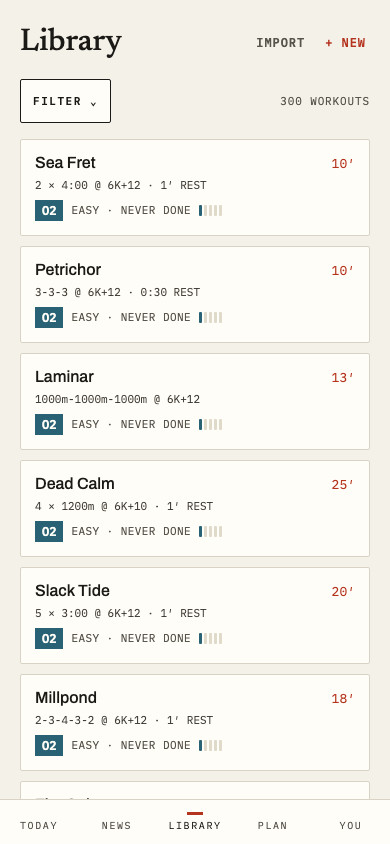
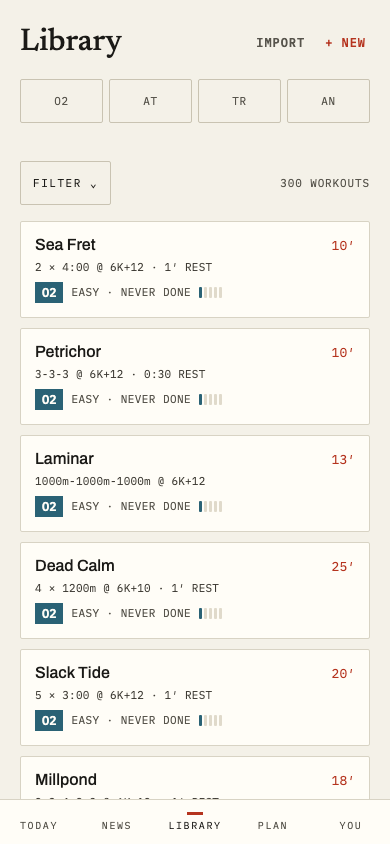
fix: sheet CLEAR spares TYPE, chip row gets a group name, stale capture and two DEVIATIONS rows fixed
Whole-branch review fix round (APPROVE WITH FIXES, four Important):

- library-seeded.png recaptured — it still showed the pre-branch screen
  (no chip row, the old ink-bordered FILTER trigger), a second Library
  capture the earlier sweep never touched.
- filters.ts gains clearSheetFilters(f): resets DIFFICULTY/TIME/PAIN/
  LAST DONE/SOURCE, preserving f.types. FilterSheet.tsx's CLEAR now calls
  it instead of the whole-library clearFilters() — a rower opening the
  sheet and tapping CLEAR no longer silently loses their chip-row
  selection. Library.tsx's own CLEAR ALL is unchanged (still empties
  everything). Both halves pinned with tests, both self-mutated.
- DEVIATIONS rows 12/48 corrected: Library's FILTER trigger is a real
  visual change (ink border -> --rule-3, 15.41:1 -> 1.56:1 on the
  border), not a pixel-identical rename as row 48 previously claimed.
- Library's TYPE chip row gains role=group + aria-label="TYPE" — the
  old sheet-based CellGrid control it replaced had a group role and a
  visible label; the bare button row had neither, in any modality. Pinned
  client-side and with a new e2e structural sweep.
- CSS/JSX comments on both index.css's .type-chip-grid margin rule and
  Today.tsx's own descriptor wrapper now cross-reference the sibling-
  mounting dependency the margin relies on.

Claude-Session: https://claude.ai/code/session_01KY9P1bYNt9uJ4hgTN18TgH

diff --git a/app/src/library/Library.test.tsx b/app/src/library/Library.test.tsx
@@ -400,6 +400,55 @@ describe("Library", () => {
       expect(within(dialog()).getByText("3 WORKOUTS")).toBeInTheDocument();
     });
 
+    // Fix round (whole-branch review, finding B): the sheet's own CLEAR
+    // used to call the whole-library `clearFilters()`, silently emptying
+    // `types` too even though the sheet renders no TYPE control at all
+    // (TYPE's own chip row lives outside it, applied directly to `filters`
+    // rather than the sheet's draft) — a rower had no way to see that
+    // pressing this CLEAR would also drop their chip-row selection. This
+    // pins the fix: CLEAR resets exactly the sheet's own groups.
+    it("the sheet's own CLEAR leaves an active TYPE chip (and its token) standing, resetting only the sheet's own groups", async () => {
+      mockReady();
+      await renderLibrary();
+
+      // TYPE via the chip row (outside the sheet, applied immediately) —
+      // narrows straight to w-o2.
+      await userEvent.click(screen.getByRole("button", { name: "O2" }));
+      expect(tokenLabel("O2")).toBeInTheDocument();
+      expect(visibleHrefs()).toStrictEqual(["/library/w-o2"]);
+
+      await openSheet();
+      const dialog = () => screen.getByRole("dialog");
+      // PAIN 5 is w-an's own level, not w-o2's — combined with the
+      // already-active TYPE=O2 this is a genuine zero-match draft, proving
+      // the two groups actually compose before CLEAR is pressed.
+      await userEvent.click(
+        within(dialog()).getByRole("button", { name: "5" }),
+      );
+      expect(
+        within(dialog()).getByText("NO WORKOUTS MATCH"),
+      ).toBeInTheDocument();
+
+      await userEvent.click(
+        within(dialog()).getByRole("button", { name: "CLEAR" }),
+      );
+
+      // The sheet's own PAIN group is reset...
+      expect(
+        within(dialog()).getByRole("button", { name: "5" }),
+      ).toHaveAttribute("aria-pressed", "false");
+      // ...and the draft is back to "TYPE=O2 only" — one match, not zero
+      // and not the full library — proving `types` survived CLEAR.
+      expect(within(dialog()).getByText("1 WORKOUT")).toBeInTheDocument();
+
+      // The chip row itself (outside the sheet entirely) was never touched.
+      expect(screen.getByRole("button", { name: "O2" })).toHaveAttribute(
+        "aria-pressed",
+        "true",
+      );
+      expect(tokenLabel("O2")).toBeInTheDocument();
+    });
+
     it("the primary disables (and the caption reads 'NO WORKOUTS MATCH') when the draft matches nothing", async () => {
       mockReady();
       await renderLibrary();
@@ -551,6 +600,24 @@ describe("Library", () => {
       expect(labels).toStrictEqual(["O2", "AT", "TR", "AN"]);
     });
 
+    // Fix round (whole-branch review, finding D): the OLD TYPE control (a
+    // sheet CellGrid) had `role="group"` + a visible "TYPE" label; this row
+    // replaced it with four bare `aria-pressed` buttons and no group
+    // semantics at all — a real a11y regression axe's own scan doesn't
+    // catch (it flags missing names on individual controls, not a missing
+    // group around correctly-named ones). Pins the fix: the row exposes a
+    // named group, and every chip is reachable inside it.
+    it("exposes a role=group named TYPE holding all four chips", async () => {
+      mockReady();
+      await renderLibrary();
+
+      const group = screen.getByRole("group", { name: "TYPE" });
+      const labels = within(group)
+        .getAllByRole("button")
+        .map((button) => button.textContent);
+      expect(labels).toStrictEqual(["O2", "AT", "TR", "AN"]);
+    });
+
     // Carried-forward subject B (both halves — the negative half was in the
     // deleted test too). Contrast for the active fill is already verified
     // at 6.67:1 (library-filter-unification design spec) — cited, not
@@ -614,6 +681,43 @@ describe("Library", () => {
       expect(
         screen.queryByText("O2", { selector: ".filter-token-label" }),
       ).not.toBeInTheDocument();
+    });
+
+    // Fix round (whole-branch review, finding B): CLEAR ALL — the token-row
+    // control, distinct from the sheet's own CLEAR pinned above — remains
+    // the one affordance whose whole job is "clear everything," `types`
+    // included, unlike the sheet's own CLEAR which now spares it.
+    it("CLEAR ALL empties an active TYPE chip too, unlike the sheet's own CLEAR", async () => {
+      mockReady();
+      await renderLibrary();
+
+      await userEvent.click(screen.getByRole("button", { name: "O2" }));
+      await openSheet();
+      await userEvent.click(
+        within(screen.getByRole("dialog")).getByRole("button", { name: "1" }),
+      );
+      await applySheet();
+
+      expect(tokenLabel("O2")).toBeInTheDocument();
+      expect(screen.getByText("PAIN 1")).toBeInTheDocument();
+      expect(visibleHrefs()).toStrictEqual(["/library/w-o2"]);
+
+      await userEvent.click(screen.getByRole("button", { name: "CLEAR ALL" }));
+
+      expect(screen.getByRole("button", { name: "O2" })).toHaveAttribute(
+        "aria-pressed",
+        "false",
+      );
+      expect(
+        screen.queryByText("O2", { selector: ".filter-token-label" }),
+      ).not.toBeInTheDocument();
+      expect(screen.queryByText("PAIN 1")).not.toBeInTheDocument();
+      expect(screen.getByText("3 WORKOUTS")).toBeInTheDocument();
+      expect(visibleHrefs()).toStrictEqual([
+        "/library/w-at",
+        "/library/w-o2",
+        "/library/w-an",
+      ]);
     });
 
     describe("the effective-type descriptor word", () => {

diff --git a/app/src/library/FilterSheet.tsx b/app/src/library/FilterSheet.tsx
@@ -7,7 +7,7 @@ import { DIFFICULTY_CHIPS } from "../components/difficultyChips";
 import { DURATION_CHIPS } from "../components/durationChips";
 import {
   RECENCY_BOUNDARY_DAYS,
-  clearFilters,
+  clearSheetFilters,
   setLastDone,
   setSource,
   toggleDifficulty,
@@ -53,6 +53,17 @@ const COUNT_ID = "filter-sheet-count";
  * SOME difficulty preference), Library's own convention is the same as
  * `durations`/`painLevels` here — empty means no filter, and CLEAR ALL keeps
  * emptying to nothing (spec §1).
+ *
+ * CLEAR vs. CLEAR ALL (fix round, whole-branch review finding B): this
+ * sheet's own CLEAR button (`clearSheetFilters`) resets only the groups
+ * rendered IN HERE — DIFFICULTY/TIME/PAIN/LAST DONE/SOURCE — leaving
+ * `draft.types` exactly as the rower left it. Before this fix CLEAR called
+ * the whole-library `clearFilters()`, silently emptying `types` too even
+ * though the sheet shows no TYPE control and gives no indication that
+ * pressing CLEAR would touch it. `Library.tsx`'s own CLEAR ALL (the
+ * token-row control, outside this component entirely) is unchanged — it
+ * still calls `clearFilters()` and still empties everything, `types`
+ * included; that is the one control whose whole job is "clear everything."
  *
  * The primary reads the constant **`Apply Filter`** (Today's own contract,
  * adopted verbatim, spec §3) rather than a live "Show N workouts" — the
@@ -122,7 +133,7 @@ export default function FilterSheet({
         <button
           type="button"
           className="filter-sheet-clear"
-          onClick={() => onChangeDraft(clearFilters())}
+          onClick={() => onChangeDraft(clearSheetFilters(draft))}
         >
           CLEAR
         </button>

diff --git a/app/src/library/Library.tsx b/app/src/library/Library.tsx
@@ -309,8 +309,21 @@ export default function Library() {
           and persists immediately via the effect below, the same as every
           other filter change. `.type-chip-grid` (index.css, extracted from
           Today's own `.today-type-chips`) lays these out as the identical
-          4-column grid Today's row uses — a pure rename, not a new layout. */}
-      <div className="chip-wrap type-chip-grid">
+          4-column grid Today's row uses — a pure rename, not a new layout.
+
+          Fix round (whole-branch review, finding D): `role="group"` +
+          `aria-label="TYPE"` — before this fix the row was four bare
+          `aria-pressed` buttons with no group semantics and no name in ANY
+          modality, a real regression from the OLD sheet-based TYPE control
+          (a `CellGrid`, `role="group"` + a visible "TYPE" label) this chip
+          row replaced. `aria-label` rather than a visible label: the row's
+          own visual design has no static "TYPE" heading anywhere (the
+          `TYPE_WORDS` descriptor beneath it is deliberately conditional —
+          exactly one selection — and itself `aria-hidden`), and adding one
+          would be a visible layout change this fix isn't scoped to; a
+          screen-reader user still needs the name spoken since nothing else
+          on screen tells them these four buttons are a group at all. */}
+      <div className="chip-wrap type-chip-grid" role="group" aria-label="TYPE">
         {TYPE_CHIPS.map((type) => {
           const selected = filters.types.includes(type);
           return (

diff --git a/app/src/today/Today.tsx b/app/src/today/Today.tsx
@@ -1092,7 +1092,18 @@ function TodayView({
                 `.type-word` (index.css — renamed from `.today-type-word` in
                 the library-filter-unification round, Task 2's M-7 review
                 fix: Library's own descriptor reuses the identical text
-                style) is the fourth of this round's class extractions. */}
+                style) is the fourth of this round's class extractions.
+
+                Fix round (whole-branch review comment): `.type-chip-grid`'s
+                own 4px margin-bottom (index.css) assumes THIS wrapper
+                always follows it — true today only because `effectiveType`
+                is never null whenever this branch renders, per the
+                paragraph above. If a future change ever makes that false
+                while the chip row still renders, the chip row will inherit
+                the exact ~34px jump Library's own I-1 fix corrected (that
+                fix's answer was mounting the wrapper unconditionally,
+                `aria-hidden` regardless — do the same here rather than
+                patching the CSS rule). */}
             {effectiveType !== null && (
               <div className="type-word-row" aria-hidden="true">
                 <p className="type-word">{TYPE_WORDS[effectiveType]}</p>

diff --git a/app/src/library/FilterSheet.test.tsx b/app/src/library/FilterSheet.test.tsx
@@ -192,12 +192,21 @@ describe("FilterSheet", () => {
     });
   });
 
-  it("CLEAR reports an empty draft without calling onApply/onDismiss", async () => {
+  // Fix round (whole-branch review, finding B): CLEAR resets exactly the
+  // sheet's OWN groups (DIFFICULTY/TIME/PAIN/LAST DONE/SOURCE) — `types`,
+  // the chip row's own group with no control inside this sheet at all, is
+  // untouched. Seeding a non-empty `types` here is the point: against the
+  // old `clearFilters()` behaviour this draft would have come back with
+  // `types: []`, which this assertion would catch.
+  it("CLEAR resets the sheet's own groups but leaves types untouched, without calling onApply/onDismiss", async () => {
     const { onChangeDraft, onApply, onDismiss } = renderSheet({
-      draft: { ...EMPTY_FILTERS, source: "custom" },
+      draft: { ...EMPTY_FILTERS, types: ["O2"], source: "custom" },
     });
     await userEvent.click(screen.getByRole("button", { name: "CLEAR" }));
-    expect(onChangeDraft).toHaveBeenCalledWith(EMPTY_FILTERS);
+    expect(onChangeDraft).toHaveBeenCalledWith({
+      ...EMPTY_FILTERS,
+      types: ["O2"],
+    });
     expect(onApply).not.toHaveBeenCalled();
     expect(onDismiss).not.toHaveBeenCalled();
   });

diff --git a/app/e2e/design.spec.ts b/app/e2e/design.spec.ts
@@ -374,6 +374,21 @@ test.describe("library screen", () => {
     await assertNoA11yViolations(page);
   });
 
+  // Fix round (whole-branch review, finding D): the TYPE chip row (four
+  // bare `aria-pressed` buttons, library-filter-unification round) replaced
+  // a sheet `CellGrid` that had `role="group"` + a visible label — axe's
+  // own scan above doesn't catch a missing GROUP around otherwise-correctly-
+  // named buttons, so this is a dedicated structural pin, mirroring the
+  // sheet's own "DIFFICULTY/TIME/PAIN each expose a role=group" sweep
+  // further down this file for `TodayFilterSheet`/`FilterSheet`.
+  test("the TYPE chip row exposes a role=group named TYPE", async ({
+    page,
+  }) => {
+    const group = page.getByRole("group", { name: "TYPE" });
+    await expect(group).toBeVisible();
+    await expect(group.getByRole("button")).toHaveCount(4);
+  });
+
   // L1 (whole-branch review): this describe renders `.workout-row-meta`
   // (11px mono), a guard-gap the ink-4 sweep never covered on this screen.
   // Waits for a real row first — unlike every other describe this sweep

diff --git a/app/src/index.css b/app/src/index.css
@@ -891,7 +891,18 @@ button:disabled {
      row, so the two together read as one unit rather than stacking two
      16px gaps. This depends on `.type-word-row` ALWAYS being the next
      sibling — review fix I-1: it once wasn't, on Library, see that rule's
-     own comment. */
+     own comment.
+
+     Fix round (whole-branch review comment, not a finding): this dependency
+     is CURRENTLY satisfied on both screens, by two different mechanisms —
+     Library's own `.type-word-row` is unconditionally mounted (I-1, below),
+     Today's is conditional on `effectiveType !== null` (Today.tsx) but that
+     condition is always true whenever the chip row itself renders (a plan
+     being active implies an effective type). If a future Today change ever
+     makes that condition possibly false while the chip row still renders,
+     this 4px will silently reproduce the exact ~34px jump I-1 fixed on
+     Library — the fix would be the SAME one Library already got (mount
+     `.type-word-row` unconditionally there too), not a change to this rule. */
   margin-bottom: 4px;
 }
 

diff --git a/app/src/library/filters.ts b/app/src/library/filters.ts
@@ -98,6 +98,22 @@ export function clearFilters(): Filters {
   return { ...EMPTY_FILTERS };
 }
 
+/** Resets exactly the FILTER SHEET's own groups — DIFFICULTY, TIME, PAIN,
+ *  LAST DONE, SOURCE — to empty, leaving `types` (the chip row's own group,
+ *  which the sheet holds no control for at all since Task 2) untouched.
+ *
+ *  Fix round (whole-branch review, finding B): `FilterSheet.tsx`'s own
+ *  CLEAR button used to call the plain `clearFilters()` above, silently
+ *  emptying `types` too — a group the sheet cannot even show the rower is
+ *  about to lose, since it renders no TYPE cell any more. Controller
+ *  ruling: CLEAR (inside the sheet) means "clear what's in here"; CLEAR ALL
+ *  (`Library.tsx`'s own token-row control, still wired to `clearFilters()`
+ *  above, unchanged) remains the one control that empties everything,
+ *  `types` included. */
+export function clearSheetFilters(f: Filters): Filters {
+  return { ...EMPTY_FILTERS, types: f.types };
+}
+
 export function applyFilters(
   workouts: LibraryWorkout[],
   f: Filters,

diff --git a/docs/design/DEVIATIONS.md b/docs/design/DEVIATIONS.md
@@ -9,7 +9,7 @@ here. These are intentional product decisions (spec:
 |---|---|---|
 | Pain 1–10 (`PAIN 5/10`, 10-segment bars, 1–10 pickers) | Pain **1–5**: `PAIN n/5`, 5-segment bars, five 44px picker cells | Differentiation; simpler scale |
 | `PAIN ≤5` library filter chip | Five individual PAIN cells (1–5), multi-select union, inside the FILTER sheet (`FilterSheet.tsx`) — not a single `≤` threshold control at all | Task 4 (ui-fix round), DESIGN.md's own words: "the old single PAIN ≤3 chip could not express 'give me something hard'". Superseded the original `PAIN ≤3` deviation this row used to record (a single threshold's own midpoint pick no longer applies once PAIN is multi-select) |
-| Flat row of up to eleven filter chips wrapping raggedly, plus an accent `ALL` clear-everything chip (`FilterChips.tsx`, deleted) | One `FILTER ⌄` chip (ink border, 44px) plus a plain count at rest; a TYPE chip row (multi-select O2/AT/TR/AN, `.type-chip-grid`) renders ABOVE it, outside the sheet, with its own descriptor word beneath (library-filter-unification round, Task 2 — see the bottom row of this table for that decision). Tapping `FILTER ⌄` opens a sheet (`FilterSheet.tsx`) holding the remaining four groups (DIFFICULTY/TIME/PAIN as 3/4/5-cell grids, LAST DONE+SOURCE sharing a line as 2-cell grids) with a level-1 primary reading the constant **`Apply Filter`** — the live count moved off the button's own name onto a caption above it (`{n} WORKOUTS`/`1 WORKOUT`/`NO WORKOUTS MATCH`, singular- and zero-aware — library-filter-unification round, Task 2, spec §3), not a live-counting "Show N workouts" any more; active filters render back on the Library screen as a token row (`filterTokens.ts`: one token per group, not per band — a contiguous selection collapses to a range like `PAIN 4–5`, a non-contiguous one lists as `PAIN 1, 4`), each token a 44px pill (a single selected TYPE fills its own type colour via the token's own `fill`, several selected types or any other kind fills ink) with its own 44×44 `✕`, plus a `CLEAR ALL` accent control on the count line, present only while something is active | Task 4 (ui-fix round), DESIGN.md's own words: the ragged eleven-chip wrap "mixed three different selection semantics... behind one visual and one ARIA vocabulary" and wrapped mid-group at 390px, so two chips of opposite behaviour (e.g. `HARD` and `≤60′`) rendered pixel-identical. The sheet groups filters by their actual selection semantics (single-select, multi-select, mutually-exclusive pair) instead of nine identical-looking flat siblings; the token row keeps what's active visible on the main screen without the sheet staying open, and the count always reads off the tokens so the row and the count can never disagree. TYPE's own control later moved back OUT of the sheet, onto a chip row above it, and DIFFICULTY joined the sheet in its old slot, and the button's copy unified with Today's own "Apply Filter" contract — library-filter-unification round, James: "I'd like the workout types to be outside of the filter modal, similar to how it is on Today" / "I really want this filter experience to feel unified with Today"; see the bottom row of this table for the full rationale |
+| Flat row of up to eleven filter chips wrapping raggedly, plus an accent `ALL` clear-everything chip (`FilterChips.tsx`, deleted) | One `FILTER ⌄` trigger (`.button-outline.filter-trigger` — see the bottom row of this table for its own border-contrast history; NOT the ink-bordered `.library-filter-toggle` this cell originally described) plus a plain count at rest; a TYPE chip row (multi-select O2/AT/TR/AN, `.type-chip-grid`) renders ABOVE it, outside the sheet, with its own descriptor word beneath (library-filter-unification round, Task 2 — see the bottom row of this table for that decision). Tapping `FILTER ⌄` opens a sheet (`FilterSheet.tsx`) holding the remaining four groups (DIFFICULTY/TIME/PAIN as 3/4/5-cell grids, LAST DONE+SOURCE sharing a line as 2-cell grids) with a level-1 primary reading the constant **`Apply Filter`** — the live count moved off the button's own name onto a caption above it (`{n} WORKOUTS`/`1 WORKOUT`/`NO WORKOUTS MATCH`, singular- and zero-aware — library-filter-unification round, Task 2, spec §3), not a live-counting "Show N workouts" any more; active filters render back on the Library screen as a token row (`filterTokens.ts`: one token per group, not per band — a contiguous selection collapses to a range like `PAIN 4–5`, a non-contiguous one lists as `PAIN 1, 4`), each token a 44px pill (a single selected TYPE fills its own type colour via the token's own `fill`, several selected types or any other kind fills ink) with its own 44×44 `✕`, plus a `CLEAR ALL` accent control on the count line, present only while something is active | Task 4 (ui-fix round), DESIGN.md's own words: the ragged eleven-chip wrap "mixed three different selection semantics... behind one visual and one ARIA vocabulary" and wrapped mid-group at 390px, so two chips of opposite behaviour (e.g. `HARD` and `≤60′`) rendered pixel-identical. The sheet groups filters by their actual selection semantics (single-select, multi-select, mutually-exclusive pair) instead of nine identical-looking flat siblings; the token row keeps what's active visible on the main screen without the sheet staying open, and the count always reads off the tokens so the row and the count can never disagree. TYPE's own control later moved back OUT of the sheet, onto a chip row above it, and DIFFICULTY joined the sheet in its old slot, and the button's copy unified with Today's own "Apply Filter" contract — library-filter-unification round, James: "I'd like the workout types to be outside of the filter modal, similar to how it is on Today" / "I really want this filter experience to feel unified with Today"; see the bottom row of this table for the full rationale |
 | Difficulty `Introductory / Moderate / Advanced` (chips `INTRO/MODERATE/ADVANCED`) | `Easy / Medium / Hard` (chips `EASY/MEDIUM/HARD`) | Differentiation |
 | Sample data: 11 book-derived workouts ("Lucky Penny", …) | Original ~300-workout generated library (original names/structures), seeded globally at boot, converged by title on every boot | Content policy |
 | "11 OF 375 ENTERED" library counter | Plain count of the user's library, no fixed denominator: `N WORKOUTS` at rest, `N OF M SHOWN` when filtered (`Library.tsx`) | 375 is the book's scale, not ours. Task 4 (ui-fix round) retired the literal word "ENTERED" too — DESIGN.md: it "described the data-entry backlog rather than anything the rower needs" |
@@ -45,7 +45,7 @@ here. These are intentional product decisions (spec:
 | N/A — the Log screen's own handoff (`docs/design/README.md` §7) has no notion of a plan whatsoever, let alone a way to keep a logged session from advancing one | A single full-width toggle row (`.log-plan-toggle`, `LogSession.tsx`'s `LogScreen`) above Save, rendered on both doors only when `plan.planKey !== null`: default reads `COUNTS TOWARD PLAN · SESSION {doneN+1} OF {sequence.length}`, tapped reads `OUTSIDE THE PLAN — won't advance`. The server pairs it with an additive `advancesPlan` boolean (`POST /api/logs`, defaults to `true`) that gates only the `plan_state` upsert inside `logs.ts`'s `create` transaction — the log row itself always inserts regardless | Task 3 (Today enhancements, post-6C): a rower doing a genuine make-up session, or logging a workout twice in one day, had no way to record it without also silently advancing plan progress meant for one real session. The toggle is door-independent (`useLogForm`'s own state, not per-door) since nothing about it differs between the session and manual doors. A plan-hook error, or the plan fetch simply still being in flight, deliberately does NOT block Save or hide the rest of the form — only the toggle itself disappears until the plan resolves with an active plan — since logging a session must never be hostage to an unrelated fetch failing or stalling (fix round 2, whole-branch review M1/M2: an earlier version of this door DID gate the whole form on the plan fetch resolving, which parked a STALLED `/api/plan` request at LOADING… forever) |
 | ui-fix handoff's own two-idiom button vocabulary (`.button-primary`/`.button-outline` only) | A third idiom, level 3 "commit-in-card": solid `--ink`, mono 12/600/0.16em, 48px (`.button-l3`, index.css) — the builder step editor's `DONE` and, in a future task, staged baseline `Apply` | Task 1 (ui-fix round): an in-card confirm that closes an editor without leaving the screen must not compete visually with the screen's own level-1 primary action. Ink reads as "settled/committed" without any risk of being mistaken for the screen's one accent-filled action — DONE "was already black" before this task (an un-named one-off, `.step-editor-done`), formalized here into a shared, reusable class |
 | ui-fix handoff's own two-idiom button vocabulary | A fourth idiom, level 4 "destructive": surface fill, 1px **accent-outlined** border, accent label (`.button-l4`) — Delete workout, and (Tasks 2-3) Discard without logging at rest. An "armed" variant (`.button-l4-armed`) fills solid accent with cream label once tapped once | Task 1 (ui-fix round): the README's own accent usage was solid-only; a destructive control needs a danger signal (accent) without a solid block competing with the screen's own happy-path L1. Last in the stack, under a 1px `--rule` divider (`.action-stack-rule`) — visually and structurally separated from the safe actions above it |
-| N/A — the handoff's own full-width-stack rule (this round) has no stated exception | SHUFFLE (Today.tsx) stays sub-full-width — 44px chip geometry (`.filter-trigger`, renamed from `.today-shuffle` in the library-filter-unification round, Task 2, once Today's own FILTER ⌄ chip and Library's FILTER ⌄ trigger needed the identical geometry — a pure rename, all three buttons' pixels unchanged, sharing one class instead of each keeping its own copy), not a stacked block — parked at the right of the `SUGGESTED` header row (originally `SUGGESTED FOR TODAY`; shortened by the 2026-08-04 round's final fix wave, M2 — see the row below), position unchanged | Task 1 (ui-fix round), James's explicit call: SHUFFLE reads as a small utility beside a label, not a screen-level action competing for the one L1 slot. It stops being its own bespoke species regardless (was `.button-outline` wearing an ink border; now genuine chip geometry — transparent fill, `--rule-3` border, mono 11px/0.14em `--ink-1` label, dashed border when disabled) |
+| N/A — the handoff's own full-width-stack rule (this round) has no stated exception | SHUFFLE (Today.tsx) stays sub-full-width — 44px chip geometry (`.filter-trigger`, renamed from `.today-shuffle` in the library-filter-unification round, Task 2, once Today's own FILTER ⌄ chip and Library's FILTER ⌄ trigger needed the identical geometry — a pure rename for Today's OWN two buttons, whose pixels are genuinely unchanged, sharing one class instead of each keeping its own copy). **Library's FILTER ⌄ trigger is a real visual change, not a rename**: it moved from the deleted `.library-filter-toggle` (ink border, `--surface` fill, mono 600-weight label) onto `.button-outline.filter-trigger` (transparent fill, `--rule-3` border, normal weight) — deliberate parity with Today's own chip idiom (spec finding 3), not an accident of the shared class name. The border's own contrast against the screen's `--page` background drops from 15.41:1 (`--ink`) to 1.56:1 (`--rule-3`); the label stays 15.41:1 either way (`--ink`/`--ink-1` are the same value, row 51 above) since only the BORDER's role changed, not the text. Not a stacked block — parked at the right of the `SUGGESTED` header row (originally `SUGGESTED FOR TODAY`; shortened by the 2026-08-04 round's final fix wave, M2 — see the row below), position unchanged | Task 1 (ui-fix round), James's explicit call: SHUFFLE reads as a small utility beside a label, not a screen-level action competing for the one L1 slot. It stops being its own bespoke species regardless (was `.button-outline` wearing an ink border; now genuine chip geometry — transparent fill, `--rule-3` border, mono 11px/0.14em `--ink-1` label, dashed border when disabled) |
 | N/A — same rule, same round | Transport (`◀ Pause ▶`) and steppers (`− +`) stay in a row, exempt from the full-width-stack rule | Task 1 (ui-fix round): both are one compound control (three positions of a single "advance the session"/"adjust one number" action), not several independent actions competing for stack position — stacking them full-width would misrepresent them as separate choices |
 | Today's own accent-filled active type chip (a pre-existing bug the DESIGN.md handoff calls out by name) | Today's type-swap chips fill with THEIR OWN type colour when active (`--type-an/o2/at`, `--type-tr` = `--ink`), identical to Builder's ClassificationCard — never a flat accent regardless of which type is active | Task 1 (ui-fix round): DESIGN.md's selected-state fix — "accent now means exactly four things... it no longer means selected." Today and Builder now render the identical chip for the identical type, whether the rower is filtering or authoring. Builder's own TYPE chips were already correct before this task; Today's were the bug |
 | DESIGN.md/this round's own task-1 brief cite `--ink-1` for SHUFFLE's label; `tokens.css`'s ink scale has always started at unsuffixed `--ink`, with no `--ink-1` | `--ink-1` added to `tokens.css` as a literal alias of `--ink` (`#1b1a17`) | Task 1: rather than silently substituting `--ink` at the one call site the handoff names, the token now exists under the name both handoff documents actually use — closes the gap for future readers of either document |
